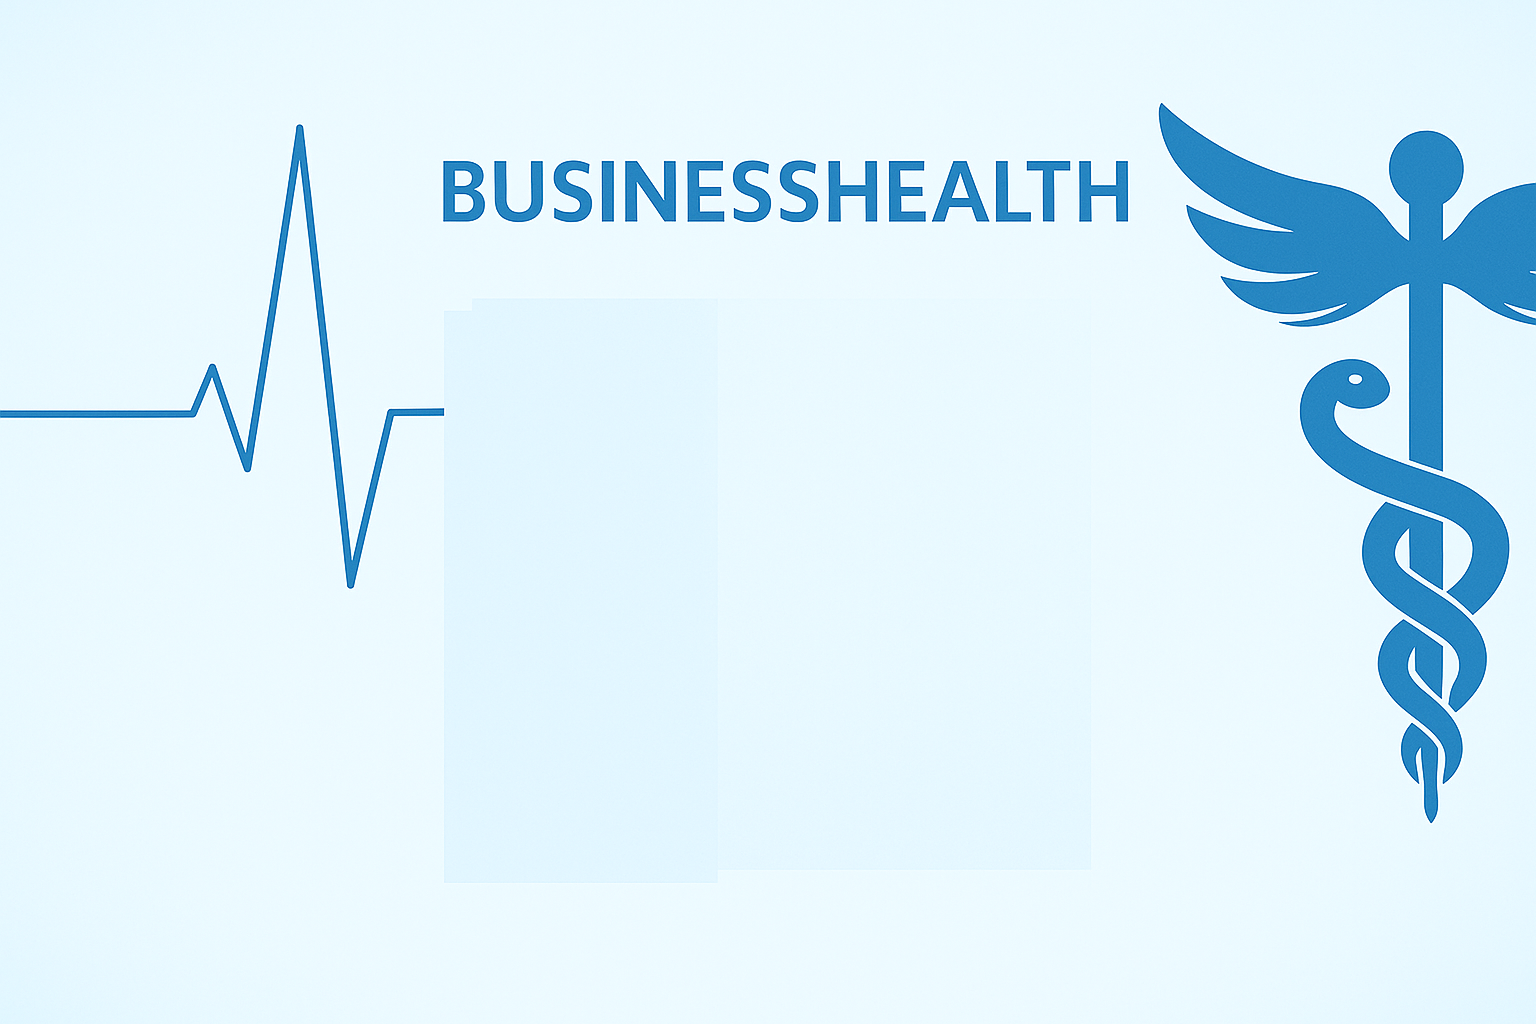
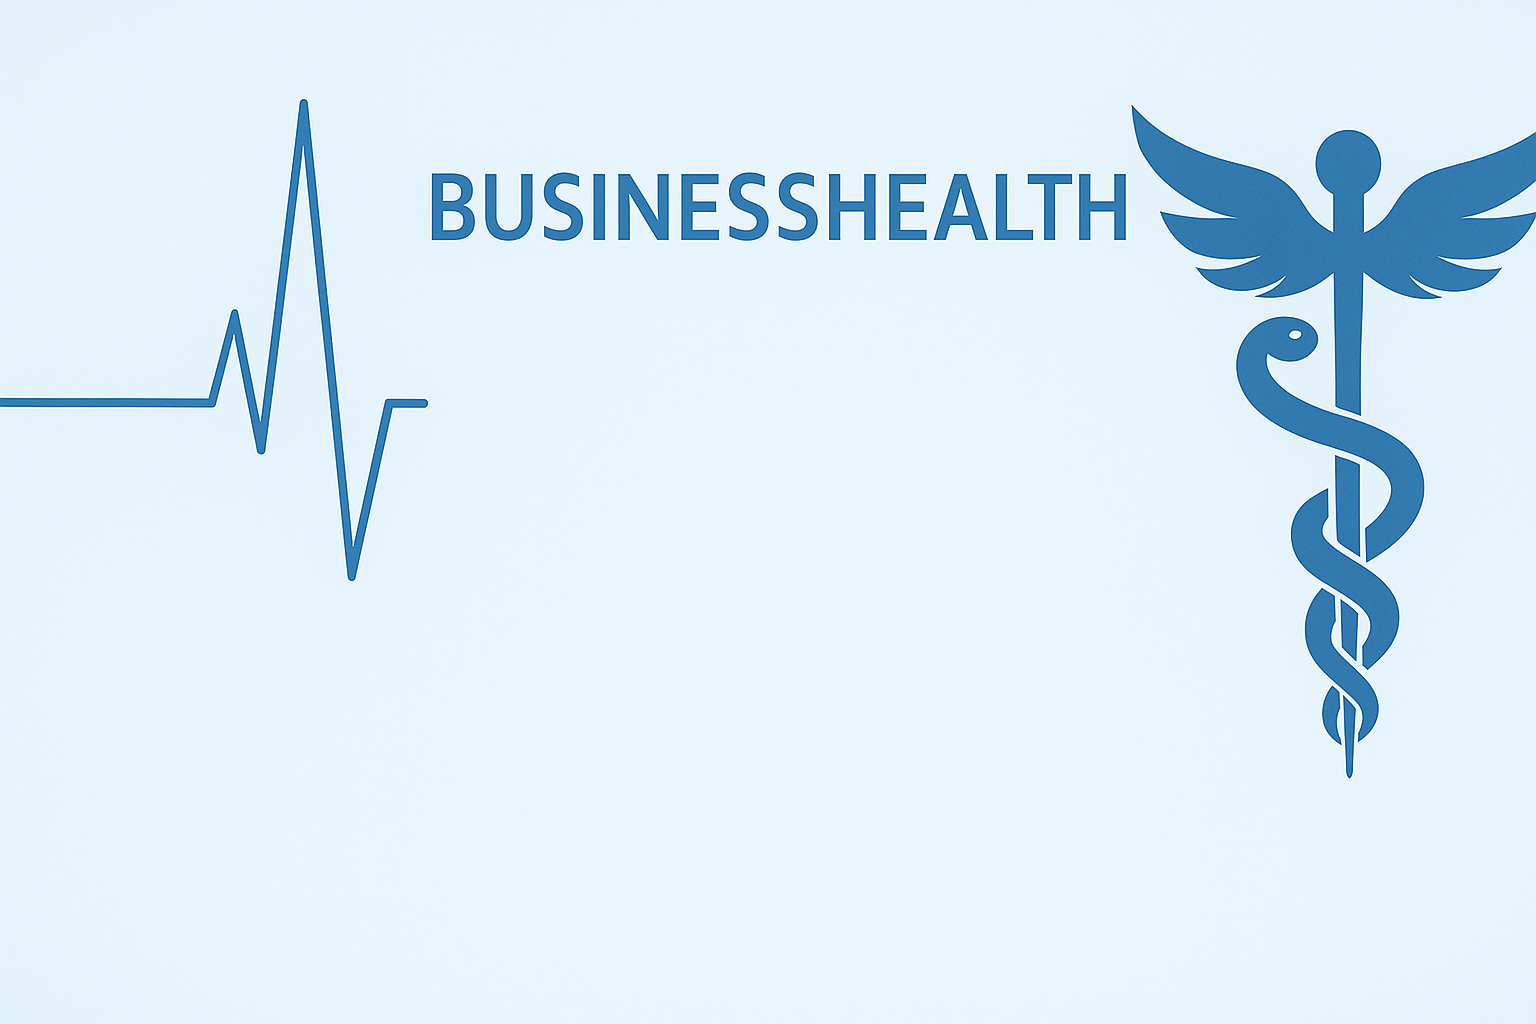
Cambios visuales parte 3
Este contiene cambios en aspectos visuales del registro del usuario y especialista asi como una imagen pulida del login entre otros cambios

Changed region(s): [[0.2812, 0.0938, 1.0, 0.8125], [0.0, 0.0938, 0.2812, 0.5625]]

diff --git a/build/web/js/funcionesIndex.js b/build/web/js/funcionesIndex.js
@@ -22,7 +22,6 @@ function cargarLogin() {
     }
 }
 function mostrarSeleccionRegistro() {
-    // Creamos el formulario con un <select> para elegir Especialista o Paciente
     const modal = document.createElement("div");
     modal.style.position = "fixed";
     modal.style.top = "0";
@@ -38,8 +37,8 @@ function mostrarSeleccionRegistro() {
     
     const form = document.createElement("div");
     form.style.backgroundColor = "#fff";
-    form.style.padding = "10px";
-    form.style.borderRadius = "8px";
+    form.style.padding = "10px"; // Espaciado interno
+    form.style.borderRadius = "5px"; // Bordes redondeados
     form.style.textAlign = "center";
     form.style.width = "218px"; // Ancho ajustado
     form.style.height = "94px"; // Altura ajustada
@@ -47,13 +46,19 @@ function mostrarSeleccionRegistro() {
     form.style.display = "flex";
     form.style.flexDirection = "column";
     form.style.justifyContent = "space-between"; // Espaciado uniforme entre los elementos
-    form.style.alignItems = "center"; // Centramos el contenido horizontalmente
+    form.style.alignItems = "center";
 
+    // Estilo del select
     const select = document.createElement("select");
     select.id = "tipoUsuario";
-    select.style.width = "calc(100% - 20px)"; // Ancho ajustado con margen
-    select.style.margin = "10px 0"; // Margen ajustado
+    select.style.width = "100%"; // Ancho completo del contenedor
+    select.style.margin = "0"; // Sin margen
     select.style.height = "30px"; // Altura ajustada
+    select.style.border = "1px solid #ccc"; // Borde delgado
+    select.style.borderRadius = "5px"; // Bordes redondeados
+    select.style.padding = "2px"; // Espaciado interno
+    select.style.fontSize = "14px"; // Tamaño de fuente
+
     const option1 = document.createElement("option");
     option1.value = "especialista";
     option1.innerText = "Especialista";
@@ -65,25 +70,32 @@ function mostrarSeleccionRegistro() {
     select.appendChild(option2);
     
     form.appendChild(select);
-    
+
+    // Estilo del botón
     const button = document.createElement("button");
     button.innerText = "Seleccionar";
-    button.style.width = "calc(100% - 20px)"; // Ancho ajustado con margen
-    button.style.margin = "10px 0"; // Margen ajustado
+    button.style.width = "100%"; // Ancho completo del contenedor
+    button.style.margin = "5px 0"; // Margen superior e inferior
     button.style.height = "30px"; // Altura ajustada
+    button.style.backgroundColor = "#f5f5f5"; // Color de fondo
+    button.style.color = "#000"; // Color del texto
+    button.style.border = "1px solid #ccc"; // Borde delgado
+    button.style.borderRadius = "5px"; // Bordes redondeados
+    button.style.fontSize = "14px"; // Tamaño de fuente
+    button.style.cursor = "pointer"; // Cursor de puntero
+
     button.onclick = function() {
         const tipoUsuario = select.value;
-        const menu = document.getElementById("menu"); // Asumimos que el menú tiene este ID
+        const menu = document.getElementById("menu");
         if (tipoUsuario === "especialista") {
-            cargarAltaUsuarioE(); // Llamada para el registro de Especialista
+            cargarAltaUsuarioE();
         } else if (tipoUsuario === "paciente") {
-            cargarAltaUsuario(); // Llamada para el registro de Paciente
+            cargarAltaUsuario();
         }
         if (menu) {
-            menu.classList.remove('move-to-top-login'); // Eliminamos la clase 'move-to-top-login'
-            menu.classList.add('move-to-top'); // Aplicamos la clase 'move-to-top'
+            menu.classList.remove('move-to-top-login');
+            menu.classList.add('move-to-top');
         }
-        // Cerrar el modal después de la selección
         document.body.removeChild(modal);
     };
     

diff --git a/web/js/funcionesIndex.js b/web/js/funcionesIndex.js
@@ -22,7 +22,6 @@ function cargarLogin() {
     }
 }
 function mostrarSeleccionRegistro() {
-    // Creamos el formulario con un <select> para elegir Especialista o Paciente
     const modal = document.createElement("div");
     modal.style.position = "fixed";
     modal.style.top = "0";
@@ -38,8 +37,8 @@ function mostrarSeleccionRegistro() {
     
     const form = document.createElement("div");
     form.style.backgroundColor = "#fff";
-    form.style.padding = "10px";
-    form.style.borderRadius = "8px";
+    form.style.padding = "10px"; // Espaciado interno
+    form.style.borderRadius = "5px"; // Bordes redondeados
     form.style.textAlign = "center";
     form.style.width = "218px"; // Ancho ajustado
     form.style.height = "94px"; // Altura ajustada
@@ -47,13 +46,19 @@ function mostrarSeleccionRegistro() {
     form.style.display = "flex";
     form.style.flexDirection = "column";
     form.style.justifyContent = "space-between"; // Espaciado uniforme entre los elementos
-    form.style.alignItems = "center"; // Centramos el contenido horizontalmente
+    form.style.alignItems = "center";
 
+    // Estilo del select
     const select = document.createElement("select");
     select.id = "tipoUsuario";
-    select.style.width = "calc(100% - 20px)"; // Ancho ajustado con margen
-    select.style.margin = "10px 0"; // Margen ajustado
+    select.style.width = "100%"; // Ancho completo del contenedor
+    select.style.margin = "0"; // Sin margen
     select.style.height = "30px"; // Altura ajustada
+    select.style.border = "1px solid #ccc"; // Borde delgado
+    select.style.borderRadius = "5px"; // Bordes redondeados
+    select.style.padding = "2px"; // Espaciado interno
+    select.style.fontSize = "14px"; // Tamaño de fuente
+
     const option1 = document.createElement("option");
     option1.value = "especialista";
     option1.innerText = "Especialista";
@@ -65,25 +70,32 @@ function mostrarSeleccionRegistro() {
     select.appendChild(option2);
     
     form.appendChild(select);
-    
+
+    // Estilo del botón
     const button = document.createElement("button");
     button.innerText = "Seleccionar";
-    button.style.width = "calc(100% - 20px)"; // Ancho ajustado con margen
-    button.style.margin = "10px 0"; // Margen ajustado
+    button.style.width = "100%"; // Ancho completo del contenedor
+    button.style.margin = "5px 0"; // Margen superior e inferior
     button.style.height = "30px"; // Altura ajustada
+    button.style.backgroundColor = "#f5f5f5"; // Color de fondo
+    button.style.color = "#000"; // Color del texto
+    button.style.border = "1px solid #ccc"; // Borde delgado
+    button.style.borderRadius = "5px"; // Bordes redondeados
+    button.style.fontSize = "14px"; // Tamaño de fuente
+    button.style.cursor = "pointer"; // Cursor de puntero
+
     button.onclick = function() {
         const tipoUsuario = select.value;
-        const menu = document.getElementById("menu"); // Asumimos que el menú tiene este ID
+        const menu = document.getElementById("menu");
         if (tipoUsuario === "especialista") {
-            cargarAltaUsuarioE(); // Llamada para el registro de Especialista
+            cargarAltaUsuarioE();
         } else if (tipoUsuario === "paciente") {
-            cargarAltaUsuario(); // Llamada para el registro de Paciente
+            cargarAltaUsuario();
         }
         if (menu) {
-            menu.classList.remove('move-to-top-login'); // Eliminamos la clase 'move-to-top-login'
-            menu.classList.add('move-to-top'); // Aplicamos la clase 'move-to-top'
+            menu.classList.remove('move-to-top-login');
+            menu.classList.add('move-to-top');
         }
-        // Cerrar el modal después de la selección
         document.body.removeChild(modal);
     };
     

diff --git a/build/web/css/estilosAltaUsuario.css b/build/web/css/estilosAltaUsuario.css
@@ -52,6 +52,7 @@
 .txt{
     font-size: 20px;
     border-radius: 15px;
+    padding: 5px; /* Agrega un pequeño margen interno entre el texto y el cuadro */
 }
 
 

diff --git a/web/css/estilosAltaUsuario.css b/web/css/estilosAltaUsuario.css
@@ -52,6 +52,7 @@
 .txt{
     font-size: 20px;
     border-radius: 15px;
+    padding: 5px; /* Agrega un pequeño margen interno entre el texto y el cuadro */
 }
 
 

diff --git a/build/web/js/funcionesAltaUsuario.js b/build/web/js/funcionesAltaUsuario.js
@@ -56,6 +56,4 @@ function coincidirContrasena() {
         avisoContrasena.style.color = "green";
         btnEnviarDatos.disabled = false;
     }
-
-
 }

diff --git a/web/js/funcionesAltaUsuario.js b/web/js/funcionesAltaUsuario.js
@@ -56,6 +56,4 @@ function coincidirContrasena() {
         avisoContrasena.style.color = "green";
         btnEnviarDatos.disabled = false;
     }
-
-
 }
